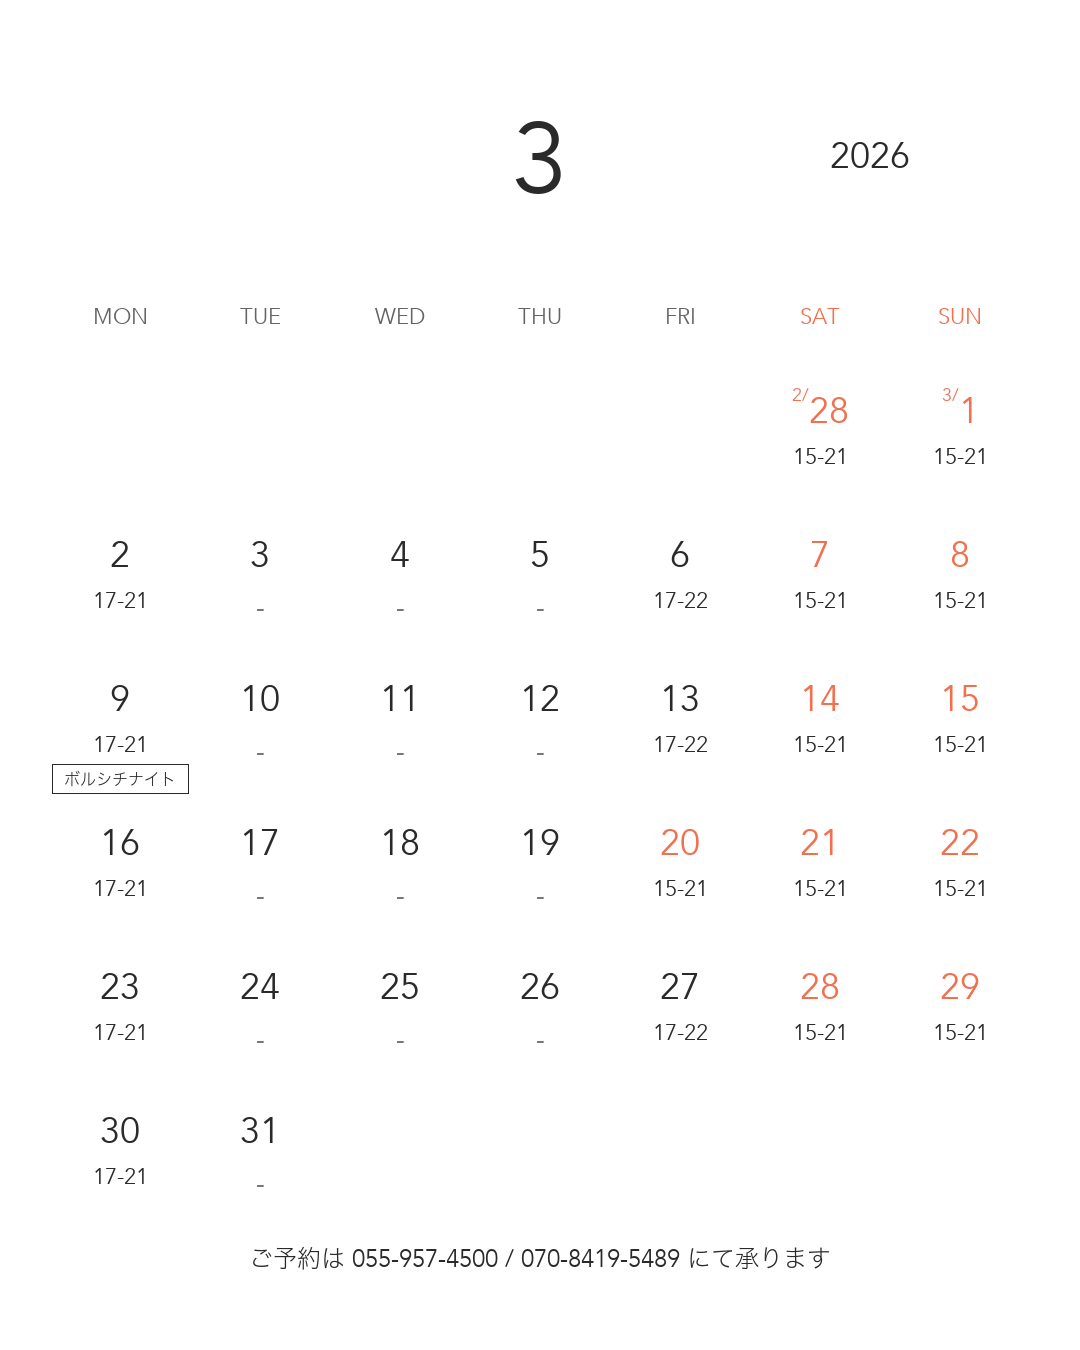
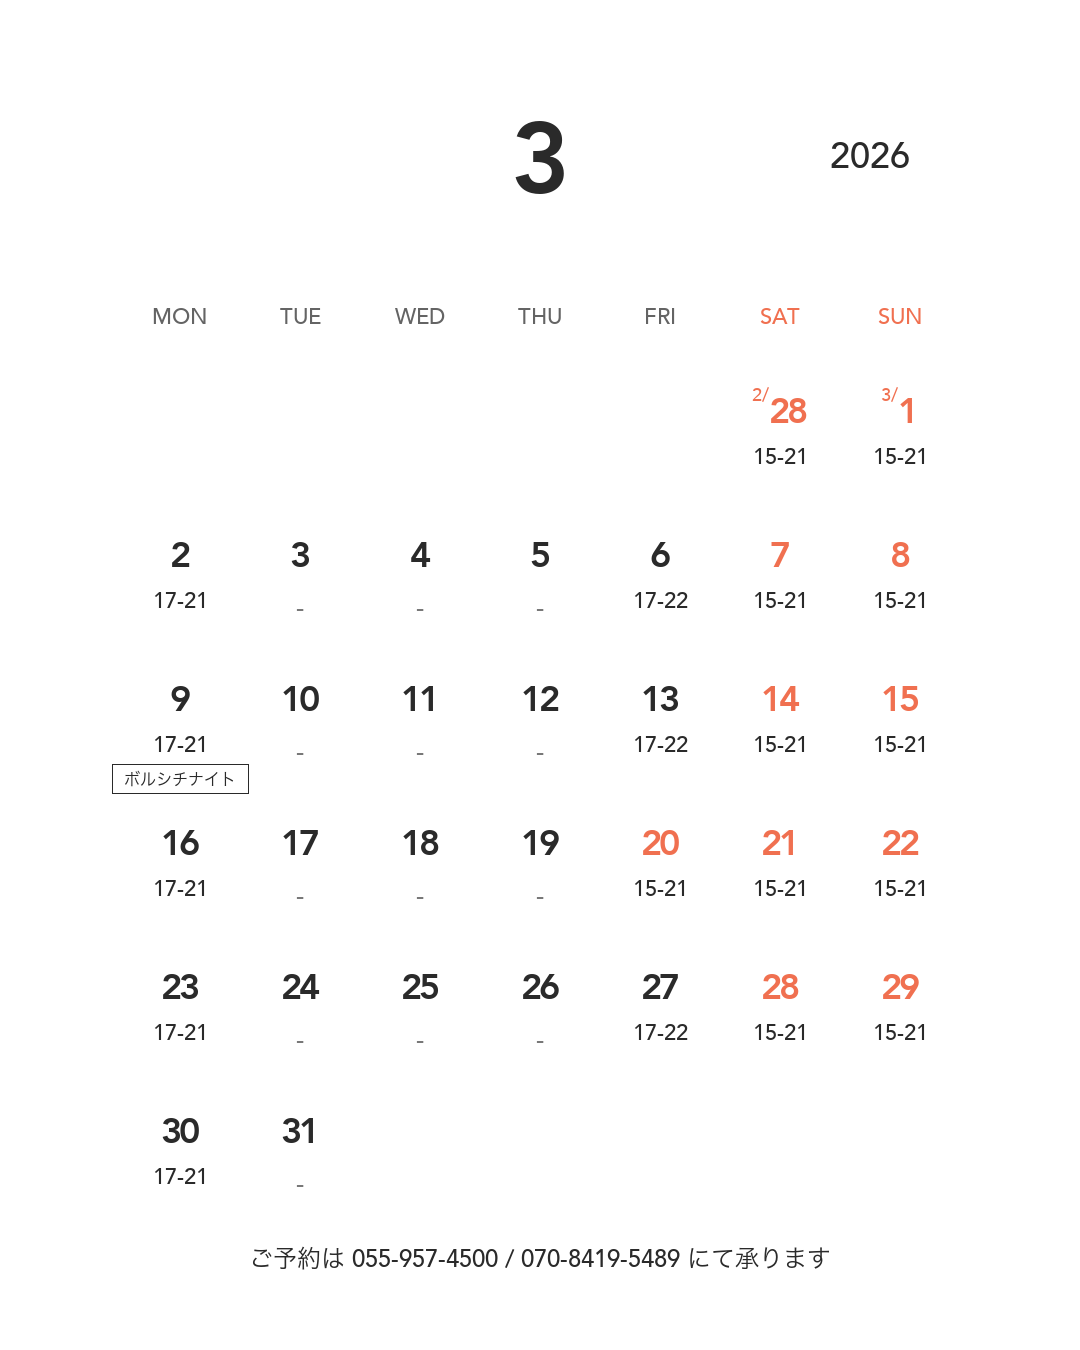
Improve calendar typography and layout
- Use bolder font weights: Avenir Medium/Heavy, Hiragino W3
- Support TTC font index selection via config
- Tighten letter spacing for 2-digit dates
- Widen left/right margins (120px → 180px) for a narrower look

diff --git a/generate_calendar.py b/generate_calendar.py
@@ -79,7 +79,7 @@ COLOR_ORANGE  = (240, 112, 80)     # 土日・祝日 (#F07050)
 COLOR_HEADER  = (100, 100, 100)    # 曜日ヘッダー
 
 # カラム（7列: MON-SUN）
-COL_X = [120, 260, 400, 540, 680, 820, 960]
+COL_X = [180, 300, 420, 540, 660, 780, 900]
 
 # 縦方向の基準位置
 Y_MONTH_NUM   = 130   # 月の数字の中心 Y
@@ -107,6 +107,8 @@ EVENT_BOX_PAD_V   = 6    # ボックス内の垂直パディング
 EVENT_BORDER_W    = 0.75  # 枠線の太さ
 EVENT_LINE_GAP    = 4    # 複数行テキストの行間
 
+DATE_TRACKING     = -3   # 2桁日付の文字間調整（負で詰め）
+
 DAY_NAMES = ["MON", "TUE", "WED", "THU", "FRI", "SAT", "SUN"]
 
 
@@ -126,20 +128,31 @@ def load_config(config_path=None):
     return config
 
 
+def _load_font(path, size, index=0):
+    """フォントを読み込む。TTC の場合は index でウェイトを指定。"""
+    return ImageFont.truetype(path, size, index=index)
+
+
 def load_fonts(config):
     """フォントを読み込む"""
     fonts = {}
-    try:
-        fonts['month_num'] = ImageFont.truetype(config['latin_font_bold'], SIZE_MONTH_NUM)
-    except:
-        fonts['month_num'] = ImageFont.truetype(config['latin_font'], SIZE_MONTH_NUM)
 
-    fonts['year'] = ImageFont.truetype(config['latin_font'], SIZE_YEAR)
+    # TTC インデックス（config で指定可能、デフォルト 0）
+    latin_idx = config.get('latin_font_index', 0)
+    latin_bold_idx = config.get('latin_font_bold_index', 0)
+    latin_medium_idx = config.get('latin_font_medium_index', 0)
 
     try:
-        fonts['header'] = ImageFont.truetype(config['latin_font_medium'], SIZE_HEADER)
+        fonts['month_num'] = _load_font(config['latin_font_bold'], SIZE_MONTH_NUM, latin_bold_idx)
     except:
-        fonts['header'] = ImageFont.truetype(config['latin_font'], SIZE_HEADER)
+        fonts['month_num'] = _load_font(config['latin_font'], SIZE_MONTH_NUM, latin_idx)
+
+    fonts['year'] = _load_font(config['latin_font'], SIZE_YEAR, latin_idx)
+
+    try:
+        fonts['header'] = _load_font(config['latin_font_medium'], SIZE_HEADER, latin_medium_idx)
+    except:
+        fonts['header'] = _load_font(config['latin_font'], SIZE_HEADER, latin_idx)
 
     # 日付フォント（date_font が指定されていればそちらを優先）
     date_font_path = config.get('date_font', config['latin_font_bold'])
@@ -147,18 +160,18 @@ def load_fonts(config):
         fonts['date'] = ImageFont.truetype(date_font_path, SIZE_DATE)
     except:
         try:
-            fonts['date'] = ImageFont.truetype(config['latin_font_bold'], SIZE_DATE)
+            fonts['date'] = _load_font(config['latin_font_bold'], SIZE_DATE, latin_bold_idx)
         except:
-            fonts['date'] = ImageFont.truetype(config['latin_font'], SIZE_DATE)
+            fonts['date'] = _load_font(config['latin_font'], SIZE_DATE, latin_idx)
 
-    fonts['date_regular'] = ImageFont.truetype(config['latin_font'], SIZE_DATE)
-    fonts['month_prefix'] = ImageFont.truetype(config['latin_font'], SIZE_MONTH_PREFIX)
-    fonts['hours'] = ImageFont.truetype(config['latin_font'], SIZE_HOURS)
-    fonts['closed'] = ImageFont.truetype(config['latin_font'], SIZE_CLOSED)
+    fonts['date_regular'] = _load_font(config['latin_font'], SIZE_DATE, latin_idx)
+    fonts['month_prefix'] = _load_font(config['latin_font'], SIZE_MONTH_PREFIX, latin_idx)
+    fonts['hours'] = _load_font(config['latin_font'], SIZE_HOURS, latin_idx)
+    fonts['closed'] = _load_font(config['latin_font'], SIZE_CLOSED, latin_idx)
     fonts['bottom_jp'] = ImageFont.truetype(config['japanese_font'], SIZE_BOTTOM)
-    fonts['bottom_latin'] = ImageFont.truetype(config['latin_font'], SIZE_BOTTOM)
+    fonts['bottom_latin'] = _load_font(config['latin_font'], SIZE_BOTTOM, latin_idx)
     fonts['event_jp'] = ImageFont.truetype(config['japanese_font'], SIZE_EVENT)
-    fonts['event_latin'] = ImageFont.truetype(config['latin_font'], SIZE_EVENT)
+    fonts['event_latin'] = _load_font(config['latin_font'], SIZE_EVENT, latin_idx)
 
     return fonts
 
@@ -242,12 +255,29 @@ def get_month_prefix(month_offset, year, month):
     return ""
 
 
-def draw_centered_text(draw, x, y, text, font, color):
-    """中央揃えでテキストを描画"""
-    bbox = draw.textbbox((0, 0), text, font=font)
-    tw = bbox[2] - bbox[0]
-    th = bbox[3] - bbox[1]
-    draw.text((x - tw / 2, y - th / 2), text, fill=color, font=font)
+def draw_centered_text(draw, x, y, text, font, color, tracking=0):
+    """中央揃えでテキストを描画。tracking で文字間を調整（負で詰め）。"""
+    if tracking == 0 or len(text) <= 1:
+        bbox = draw.textbbox((0, 0), text, font=font)
+        tw = bbox[2] - bbox[0]
+        th = bbox[3] - bbox[1]
+        draw.text((x - tw / 2, y - th / 2), text, fill=color, font=font)
+        return
+
+    # 各文字の幅を取得
+    char_widths = []
+    max_h = 0
+    for ch in text:
+        bbox = draw.textbbox((0, 0), ch, font=font)
+        char_widths.append(bbox[2] - bbox[0])
+        max_h = max(max_h, bbox[3] - bbox[1])
+
+    total_w = sum(char_widths) + tracking * (len(text) - 1)
+    cx = x - total_w / 2
+    cy = y - max_h / 2
+    for i, ch in enumerate(text):
+        draw.text((cx, cy), ch, fill=color, font=font)
+        cx += char_widths[i] + tracking
 
 
 def is_latin_char(ch):
@@ -517,13 +547,20 @@ def generate_calendar(config):
 
             # 日付描画
             day_str = str(day)
+            trk = DATE_TRACKING if len(day_str) >= 2 else 0
             if needs_prefix:
                 prefix_text = prefix + "/"
                 prefix_bbox = draw.textbbox((0, 0), prefix_text, font=fonts['month_prefix'])
+
+                # 日付部分の幅をトラッキング込みで計算
+                char_widths = []
+                for ch in day_str:
+                    cb = draw.textbbox((0, 0), ch, font=fonts['date'])
+                    char_widths.append(cb[2] - cb[0])
+                day_w = sum(char_widths) + trk * (len(day_str) - 1)
                 day_bbox = draw.textbbox((0, 0), day_str, font=fonts['date'])
 
                 prefix_w = prefix_bbox[2] - prefix_bbox[0]
-                day_w = day_bbox[2] - day_bbox[0]
                 total_w = prefix_w + day_w
 
                 start_x = x - total_w / 2
@@ -534,15 +571,17 @@ def generate_calendar(config):
                 draw.text((start_x, prefix_y), prefix_text,
                          fill=date_color, font=fonts['month_prefix'])
 
-                # 日付
+                # 日付（1文字ずつトラッキング付きで描画）
                 day_x = start_x + prefix_w
                 day_y = y_date - day_h / 2
-                draw.text((day_x, day_y), day_str,
-                         fill=date_color, font=fonts['date'])
+                for i, ch in enumerate(day_str):
+                    draw.text((day_x, day_y), ch,
+                             fill=date_color, font=fonts['date'])
+                    day_x += char_widths[i] + trk
             else:
                 # プレフィックスなし
                 draw_centered_text(draw, x, y_date, day_str,
-                                  fonts['date'], date_color)
+                                  fonts['date'], date_color, tracking=trk)
 
             # 営業時間描画
             hours = get_hours(day, month_offset, config)
